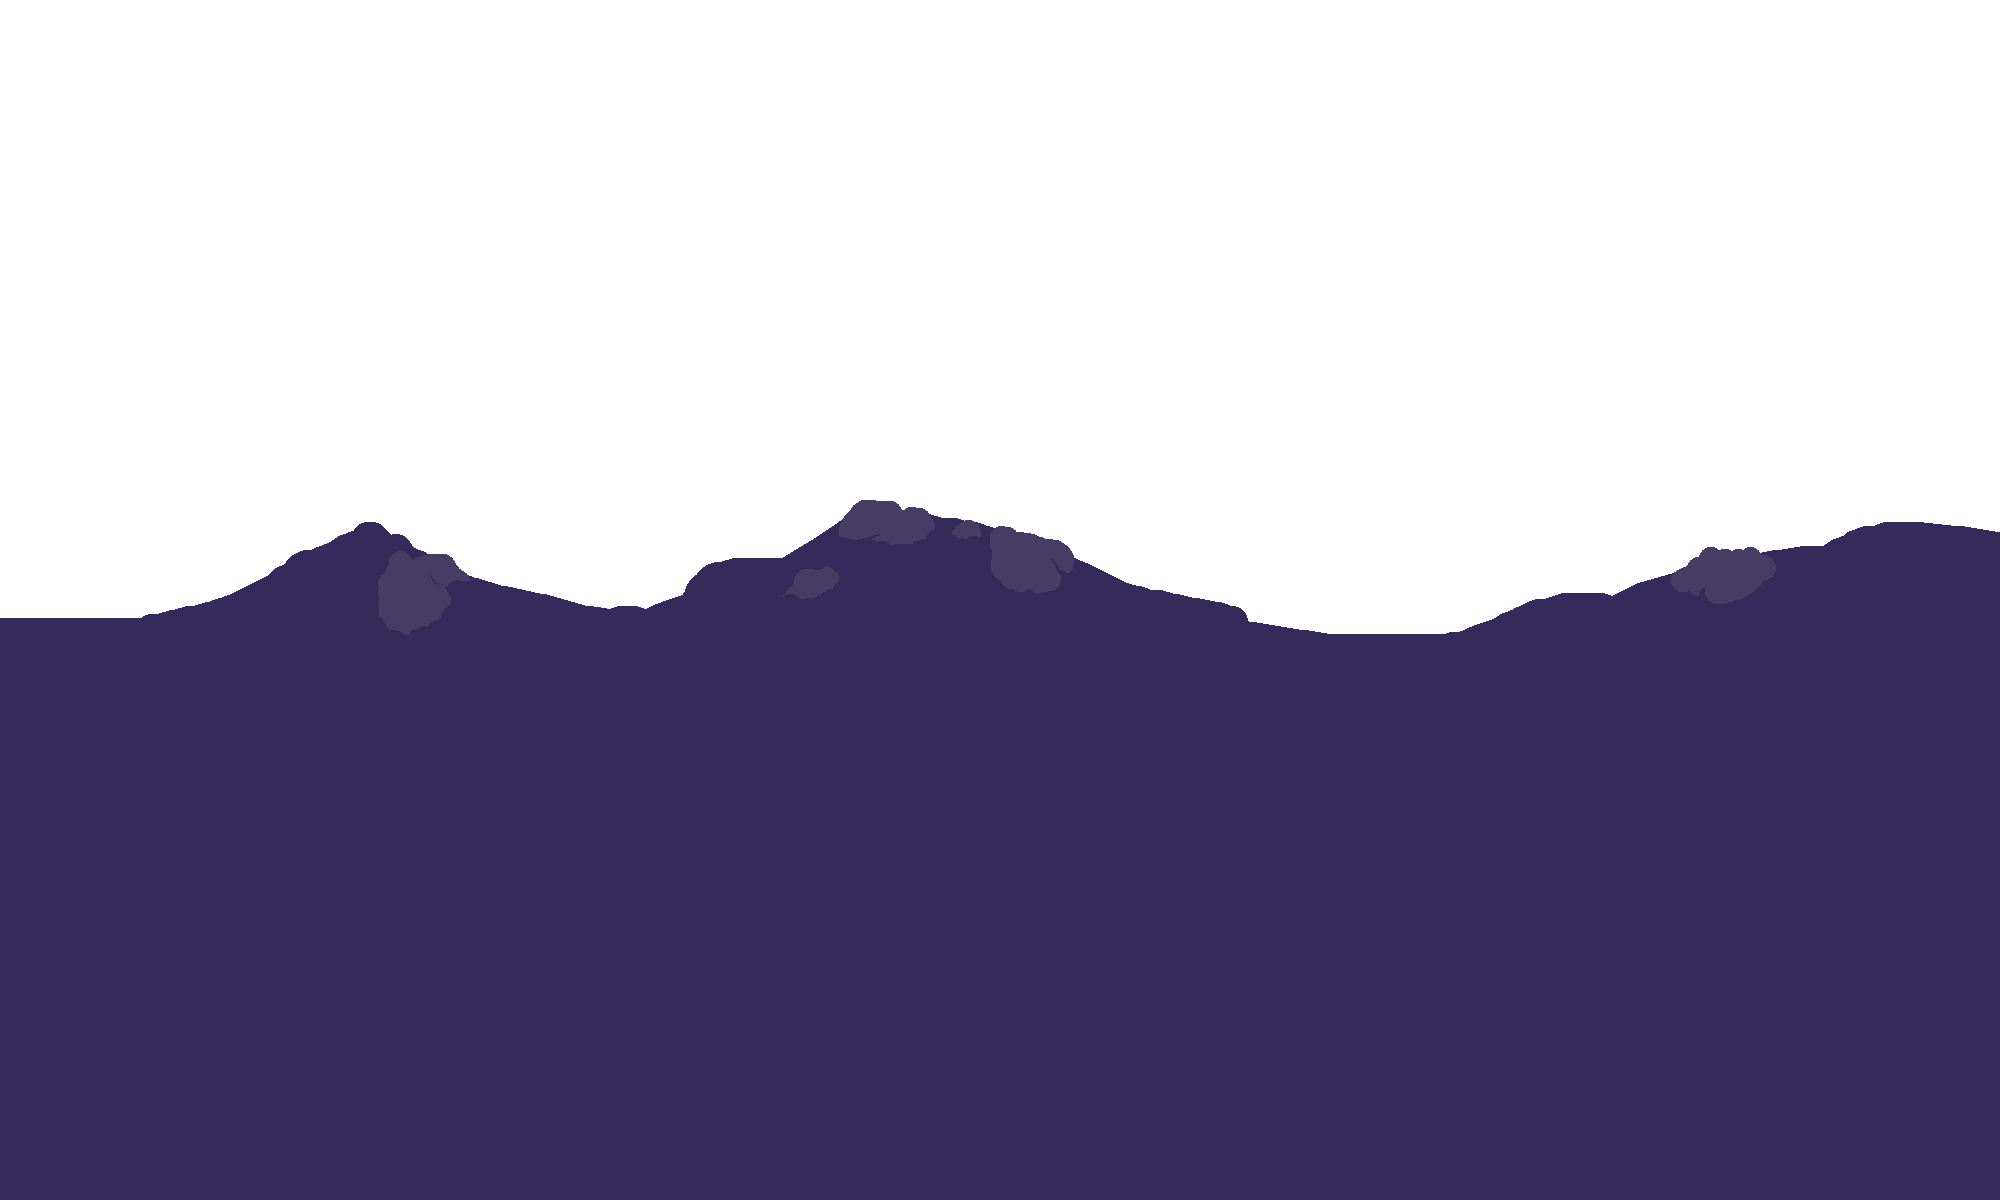
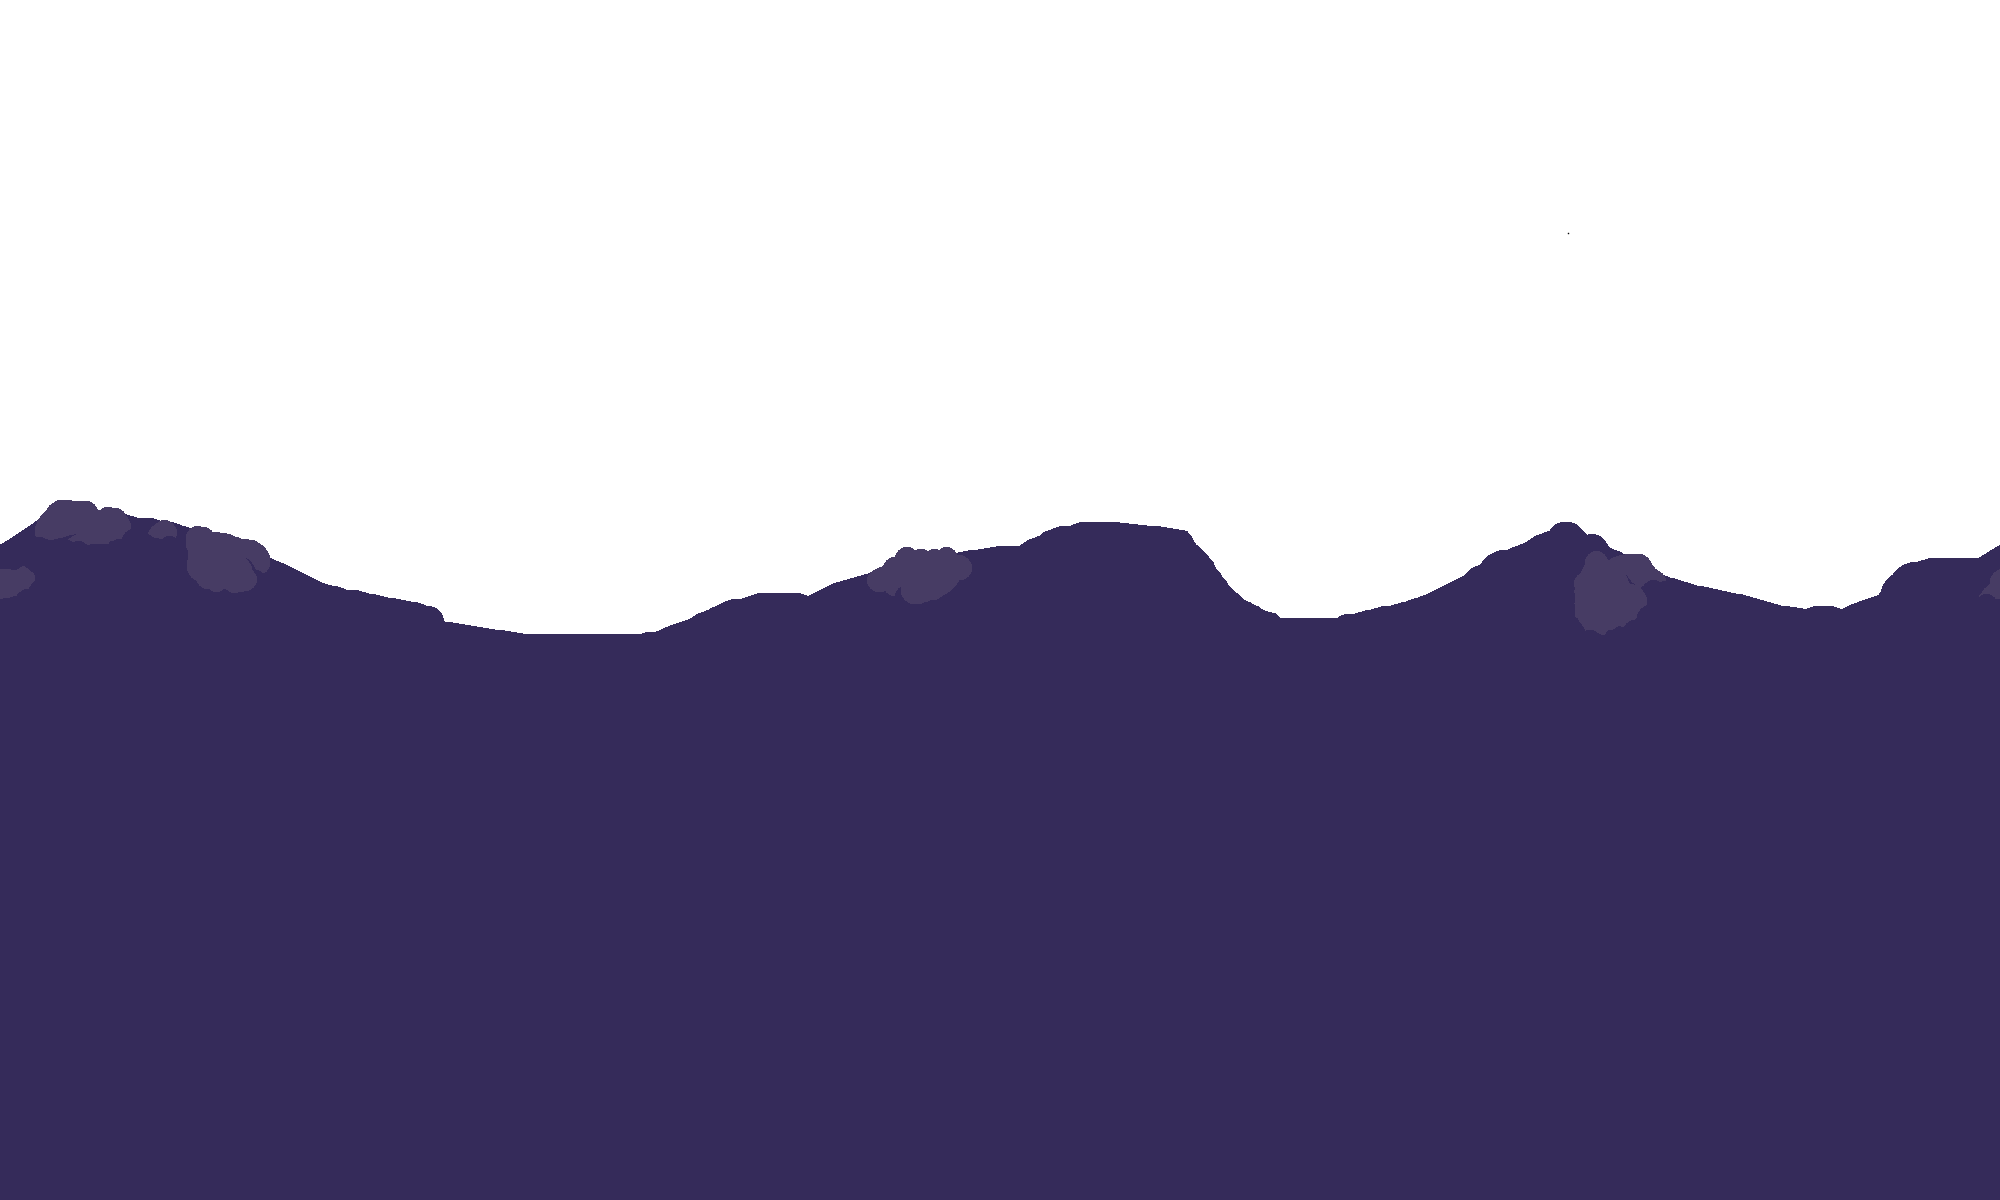
background finish in code layer

Changed region(s): [[0.0, 0.4008, 1.0, 0.555]]

diff --git a/Sources/Modules/Yggdrasil/YggdrasilTown/Background/YggdrasilTownBackground.cs b/Sources/Modules/Yggdrasil/YggdrasilTown/Background/YggdrasilTownBackground.cs
@@ -1,4 +1,5 @@
 using Everglow.Commons.DataStructures;
+using Everglow.Yggdrasil.Common;
 using Everglow.Yggdrasil.Common.BackgroundManager;
 using Everglow.Yggdrasil.YggdrasilTown.Tiles;
 using SubworldLibrary;
@@ -69,6 +70,14 @@ public class YggdrasilTownBackground : ModSystem
 		return false;
 	}
 	/// <summary>
+	/// 灯木背景的绘制中心
+	/// </summary>
+	public float LampWoodCenterY = 0;
+	/// <summary>
+	/// 切换背景造成的颜色变化
+	/// </summary>
+	public float BackgroundSwitchingAlpha = 0f;
+	/// <summary>
 	/// 绘制天穹城镇背景
 	/// </summary>
 	/// <param name="baseColor"></param>
@@ -132,15 +141,51 @@ public class YggdrasilTownBackground : ModSystem
 						return;
 					}
 				}
+				if (ModContent.GetInstance<LampWoodForest>().IsBiomeActive(Main.LocalPlayer))
+				{
+					var lampClose = ModAsset.LampWoodClose.Value;
+					var lampMiddle = ModAsset.LampWoodMiddle.Value;
+					var lampFar = ModAsset.LampWoodFar.Value;
+					var lampSky = ModAsset.LampWoodSky.Value;
+					Vector2 correction = new Vector2(0, LampWoodCenterY - 4000) - BiomeCenter;
+					float setSize = 1f;
+					if(BackgroundSwitchingAlpha < 1f)
+					{
+						BackgroundSwitchingAlpha += 0.02f;
+					}
+					else
+					{
+						BackgroundSwitchingAlpha = 1f;
+					}
+					BackgroundManager.QuickDrawBG(lampSky, GetDrawRect(lampSky.Size(), 0f, correction, setSize), baseColor * BackgroundSwitchingAlpha, (int)(BiomeCenter.Y - 20600), (int)(BiomeCenter.Y + 8000), false, true);
+					BackgroundManager.QuickDrawBG(lampFar, GetDrawRect(lampFar.Size(), 0.05f, correction, setSize), baseColor * BackgroundSwitchingAlpha, (int)(BiomeCenter.Y - 20600), (int)(BiomeCenter.Y + 8000), false, true);
+					BackgroundManager.QuickDrawBG(lampMiddle, GetDrawRect(lampMiddle.Size(), 0.10f, correction + new Vector2(0, 5000), setSize), baseColor * BackgroundSwitchingAlpha, (int)(BiomeCenter.Y - 20600), (int)(BiomeCenter.Y + 8000), false, true);
+					BackgroundManager.QuickDrawBG(lampClose, GetDrawRect(lampFar.Size(), 0.15f, correction + new Vector2(0, 6000), setSize), baseColor * BackgroundSwitchingAlpha, (int)(BiomeCenter.Y - 20600), (int)(BiomeCenter.Y + 8000), false, true);
+				}
+				else
+				{
+					if (Math.Abs(LampWoodCenterY - Main.screenPosition.Y) > 200)
+					{
+						LampWoodCenterY = Main.screenPosition.Y;
+					}
+					if (BackgroundSwitchingAlpha > 0f)
+					{
+						BackgroundSwitchingAlpha -= 0.02f;
+					}
+					else
+					{
+						BackgroundSwitchingAlpha = 0f;
+					}
+				}
 			}
 		}
-		
 
+		//旧背景
 		//BackgroundManager.QuickDrawBG(texSky, GetDrawRect(texSky.Size(), 0f, Vector2.Zero), baseColor, (int)(BiomeCenter.Y - 20600), (int)(BiomeCenter.Y + 16000));
 		//BackgroundManager.QuickDrawBG(texC3, GetDrawRect(texClose.Size(), 0.05f, Vector2.Zero), baseColor, (int)(BiomeCenter.Y - 20600), (int)(BiomeCenter.Y + 16000), false, false);
 		//BackgroundManager.QuickDrawBG(texC2, GetDrawRect(texClose.Size(), 0.10f, Vector2.Zero), baseColor, (int)(BiomeCenter.Y - 20600), (int)(BiomeCenter.Y + 16000), false, false);
 		//BackgroundManager.QuickDrawBG(texC1, GetDrawRect(texClose.Size(), 0.15f, new Vector2(0, 7200)), baseColor, (int)(BiomeCenter.Y - 20600), (int)(BiomeCenter.Y + 16000), false, true);
-
+		float AntiBackgroundSwitchingAlpha = 1 - BackgroundSwitchingAlpha;
 		Vector2 deltaPos = screenCenter - BiomeCenter;
 		float MoveStep = 0.15f;
 		deltaPos *= MoveStep;
@@ -148,20 +193,20 @@ public class YggdrasilTownBackground : ModSystem
 		{
 			Vector2 DrawCenter = new Vector2(Main.screenWidth, Main.screenHeight) / 2f - deltaPos + new Vector2(-650 + texC1.Width * x, -400);
 			if (DrawCenter.X >= -60 && DrawCenter.X <= Main.screenWidth + 60)
-				BackgroundManager.DrawWaterfallInBackground(BiomeCenter, 0.15f, DrawCenter, 20f, 750f, baseColor * 0.06f, (int)(BiomeCenter.Y - 20600), (int)(BiomeCenter.Y + 8000), texC1.Size(), false, false);
+				BackgroundManager.DrawWaterfallInBackground(BiomeCenter, 0.15f, DrawCenter, 20f, 750f, baseColor * 0.06f * AntiBackgroundSwitchingAlpha, (int)(BiomeCenter.Y - 20600), (int)(BiomeCenter.Y + 8000), texC1.Size(), false, false);
 			DrawCenter = new Vector2(Main.screenWidth, Main.screenHeight) / 2f - deltaPos + new Vector2(-1350 + texC1.Width * x, -100);
 			if (DrawCenter.X >= -60 && DrawCenter.X <= Main.screenWidth + 60)
-				BackgroundManager.DrawWaterfallInBackground(BiomeCenter, 0.15f, DrawCenter, 20f, 750f, baseColor * 0.06f, (int)(BiomeCenter.Y - 20600), (int)(BiomeCenter.Y + 8000), texC1.Size(), false, false);
+				BackgroundManager.DrawWaterfallInBackground(BiomeCenter, 0.15f, DrawCenter, 20f, 750f, baseColor * 0.06f * AntiBackgroundSwitchingAlpha, (int)(BiomeCenter.Y - 20600), (int)(BiomeCenter.Y + 8000), texC1.Size(), false, false);
 		}
 		Rectangle drawArea = GetDrawRect(texClose.Size(), 0.08f, Vector2.Zero);
 		drawArea.Width = (int)(drawArea.Width * 0.6f);
 		drawArea.Height = (int)(drawArea.Height * 0.6f);
 		drawArea.Y += 200;
 		drawArea.X += 500;
-		BackgroundManager.QuickDrawBG(texClose, drawArea, baseColor, (int)(BiomeCenter.Y - 20600), (int)(BiomeCenter.Y + 8000), true, true);
+		BackgroundManager.QuickDrawBG(texClose, drawArea, baseColor * AntiBackgroundSwitchingAlpha, (int)(BiomeCenter.Y - 20600), (int)(BiomeCenter.Y + 8000), true, true);
 
 		//BackgroundManager.DrawWaterfallInBackground(BiomeCenter, 0.35f, new Vector2(-650, -400), 60f, 550f, baseColor * 0.12f, (int)(BiomeCenter.Y - 20600), (int)(BiomeCenter.Y + 8000), texClose.Size());
-		BackgroundManager.QuickDrawBG(texBound, GetDrawRect(texBound.Size(), 1f, Vector2.Zero), baseColor, (int)(BiomeCenter.Y - 20720), (int)(BiomeCenter.Y - 20420), false, false);
+		BackgroundManager.QuickDrawBG(texBound, GetDrawRect(texBound.Size(), 1f, Vector2.Zero), baseColor * AntiBackgroundSwitchingAlpha, (int)(BiomeCenter.Y - 20720), (int)(BiomeCenter.Y - 20420), false, false);
 	}
 	/// <summary>
 	/// 获取绘制矩形

diff --git a/Sources/Modules/Yggdrasil/YggdrasilTown/YggdrasilTownBiome.cs b/Sources/Modules/Yggdrasil/YggdrasilTown/YggdrasilTownBiome.cs
@@ -1,3 +1,4 @@
+using Everglow.Yggdrasil.Common;
 using Terraria.Graphics.Light;
 
 namespace Everglow.Yggdrasil.YggdrasilTown;
@@ -19,6 +20,31 @@ public class YggdrasilTownBiome : ModBiome
 	public override bool IsBiomeActive(Player player)
 	{
 		return Background.YggdrasilTownBackground.BiomeActive();
+	}
+
+	public override void OnInBiome(Player player)
+	{
+		Main.raining = false;
+		base.OnInBiome(player);
+	}
+}
+public class LampWoodForest : ModBiome
+{
+	public override int Music => !Main.dayTime ? Common.YggdrasilContent.QuickMusic("NewYggdrasilTownBGM") : Common.YggdrasilContent.QuickMusic("YggdrasilTownBGM");
+	public override SceneEffectPriority Priority => SceneEffectPriority.Environment;
+	public override string BestiaryIcon => "Everglow/Yggdrasil/YggdrasilTown/YggdrasilTownIcon";
+	public override string BackgroundPath => base.BackgroundPath;
+	public override string MapBackground => "Everglow/" + ModAsset.LampWood_MapBackgroundPath;
+	public override ModWaterStyle WaterStyle => ModContent.GetInstance<Water.YggdrasilTownWaterStyle>();
+	public override Color? BackgroundColor => base.BackgroundColor;
+
+	public override void Load()
+	{
+		base.Load();
+	}
+	public override bool IsBiomeActive(Player player)
+	{
+		return ModContent.GetInstance<YggdrasilBiomeTileCounter>().DarkForestGrassCount > 30;
 	}
 
 	public override void OnInBiome(Player player)

diff --git a/Sources/Modules/Yggdrasil/Common/YggdrasilBiomeTileCounter.cs b/Sources/Modules/Yggdrasil/Common/YggdrasilBiomeTileCounter.cs
@@ -1,0 +1,13 @@
+using Everglow.Yggdrasil.YggdrasilTown.Tiles.LampWood;
+
+namespace Everglow.Yggdrasil.Common;
+
+public class YggdrasilBiomeTileCounter : ModSystem
+{
+	public int DarkForestGrassCount;
+
+	public override void TileCountsAvailable(ReadOnlySpan<int> tileCounts)
+	{
+		DarkForestGrassCount = tileCounts[ModContent.TileType<DarkForestGrass>()];
+	}
+}
